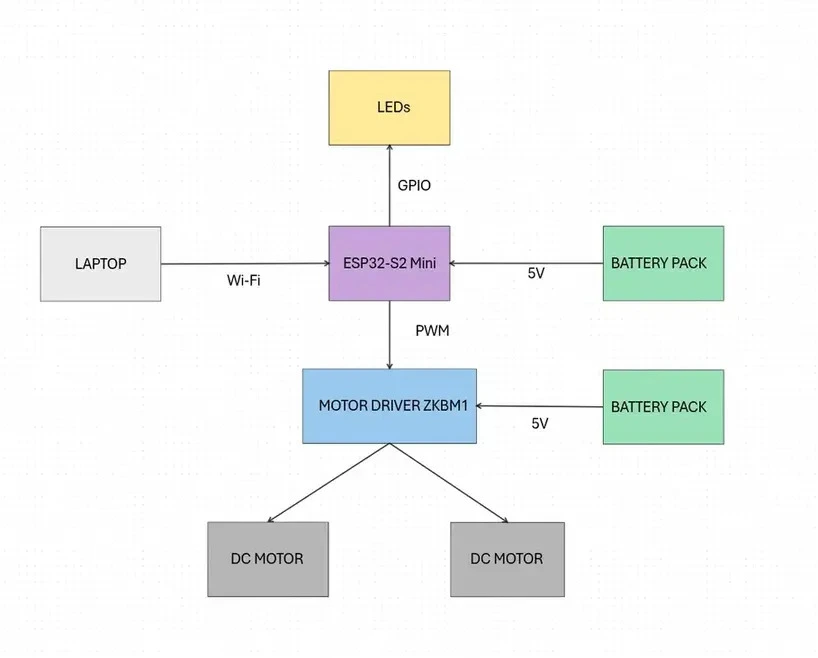
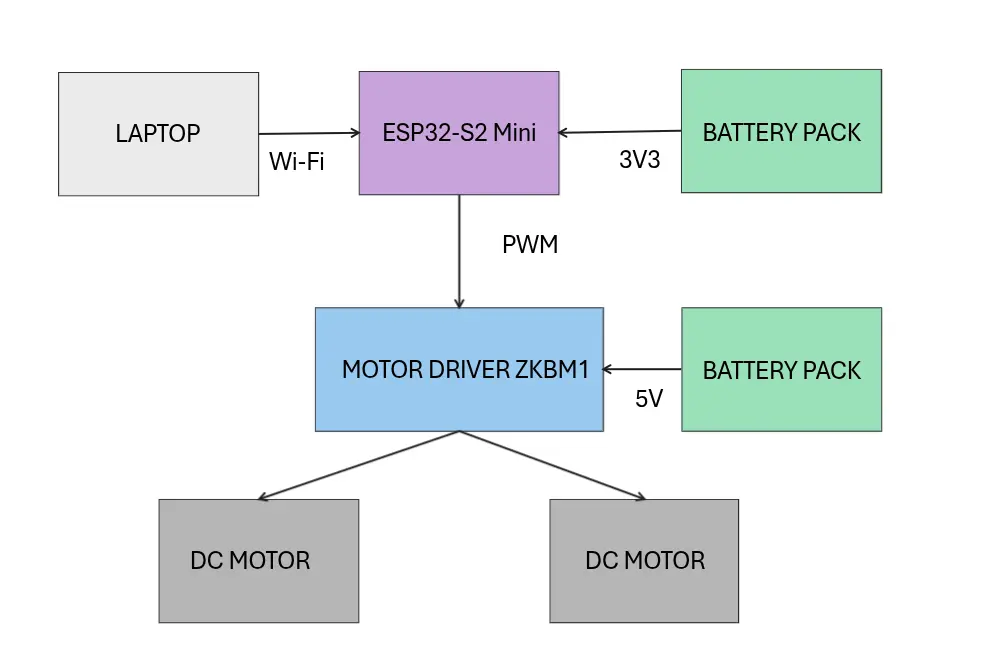
Added Kicad schematic

diff --git a/website/versioned_docs/version-fils_en/project/2025/andrei.salavastru/index.md b/website/versioned_docs/version-fils_en/project/2025/andrei.salavastru/index.md
@@ -23,16 +23,11 @@ I chose this project because I’ve always been curious about how RC cars work. 
 
 #### ESP32-S2 Mini
 - **Role:** Serves as the central microcontroller for the car. It handles Wi-Fi communication, receives user input, processes that input, and controls the motors.
-- **Connections:** GPIO pins display Wi-Fi connection status via LEDs, and some GPIO pins send PWM signals to the motor driver’s enable pins.
+- **Connections:** GPIO pins send PWM signals to the motor driver’s enable pins.
 
 #### LAPTOP
 - **Role:** Acts as the remote control interface. Sends WASD movement commands over Wi-Fi to the ESP32-S2 Mini.
 - **Connections:** Communicates with the ESP32-S2 via HTTP over a shared Wi-Fi network. The control interface is a web page.
-
-#### LEDs
-- **Interface:** GPIO 
-- **Role:** Show whether the ESP is connected to Wi-Fi.
-- **Connections:** Each LED is connected to a GPIO pin. A 220Ω resistor is placed between the GPIO and the LED to prevent damage.
 
 #### MOTOR DRIVER ZKBM1
 - **Interface:** PWM
@@ -54,17 +49,20 @@ I chose this project because I’ve always been curious about how RC cars work. 
 <!-- write your progress here every week -->
 
 ### Week 5 - 11 May
-
+Purchased all the necessary components and set up the Rust development environment for the ESP32-S2 Mini microcontroller.
 ### Week 12 - 18 May
-
+Completed the hardware assembly of the car, including wiring and soldering the electronic components. Continued software development by implementing Wi-Fi connectivity and setting up PWM control for the motors.
 ### Week 19 - 25 May
 
 ## Hardware
-The Octane project is built around an ESP32-S2 Mini, which handles both Wi-Fi communication and motor control. User commands (WASD) are received via Wi-Fi and translated into PWM signals sent to a ZKBM1 motor driver. A pair of status LEDs connected to GPIO pins provide feedback, indicating the Wi-Fi connection status. The ZKBM1 controls two DC motors, enabling movement through GPIO pins. Power is supplied by two battery packs: one powers the motor driver, and the other powers the ESP32-S2 Mini. Thus, the setup allows for wireless control using a microcontroller.
+The Octane project is built around an ESP32-S2 Mini, which handles both Wi-Fi communication and motor control. User commands (WASD) are received via Wi-Fi and translated into PWM signals sent to a ZKBM1 motor driver. The ZKBM1 controls two DC motors, enabling movement through GPIO pins. Power is supplied by two battery packs: one powers the motor driver, and the other powers the ESP32-S2 Mini. Thus, the setup allows for wireless control using a microcontroller.
+
+![Car Hardware](car.webp)
+
 
 ### Schematics
 
-Place your KiCAD schematics here.
+![KiCad schematic](KiCad.webp)
 
 ### Bill of Materials
 
@@ -76,7 +74,6 @@ Place your KiCAD schematics here.
 | [Battery Pack x2](https://www.emag.ro/carcasa-cu-suport-si-conectori-cu-2-fire-pentru-doua-baterii-tip-aa-r6-din-plastic-negru-csc-2-aa/pd/DGX5NBMBM/?ref=embedding_similar_model_1_1&provider=rec&recid=rec_102_7872997ae108d1ecb78cdc72ca60392b41d18d7b0db60c74e34ad4a5536be491_1746301694&scenario_ID=102)                  | Powers the motor driver and ESP32                           | [11.98 RON](https://www.emag.ro/carcasa-cu-suport-si-conectori-cu-2-fire-pentru-doua-baterii-tip-aa-r6-din-plastic-negru-csc-2-aa/pd/DGX5NBMBM/?ref=embedding_similar_model_1_1&provider=rec&recid=rec_102_7872997ae108d1ecb78cdc72ca60392b41d18d7b0db60c74e34ad4a5536be491_1746301694&scenario_ID=102)                                                          |
 | [Female-Female Wires x20 ](https://electronix.ro/produs/fire-dupont-mama-mama-cu-jumper-wire-pentru-pcb-10-pini/)            | Connect components Female-Female            | [5.96 RON](https://electronix.ro/produs/fire-dupont-mama-mama-cu-jumper-wire-pentru-pcb-10-pini/)                                                 |
 | [Male-Male Wires x20](https://electronix.ro/produs/fire-dupont-tata-tata-cu-jumper-wire-pentru-pcb-10-pini/)            | Connect components Male-Male              | [7.54 RON](https://electronix.ro/produs/fire-dupont-tata-tata-cu-jumper-wire-pentru-pcb-10-pini/)                                                 |
-| [220Ω Resistors x10](https://electronix.ro/produs/set-10-rezistori-220-ohm/)                     | Used with LEDs to limit current                             | [3.37 RON](https://electronix.ro/produs/set-10-rezistori-220-ohm/)                                                            |  
 
 
 
@@ -84,7 +81,7 @@ Place your KiCAD schematics here.
 | Library | Description | Usage |
 |---------|-------------|-------|
 | [`esp-idf-sys`](https://crates.io/crates/esp-idf-sys)   | Low-level bindings to the ESP-IDF  | Provides access to ESP32 system APIs and runtime components                                                |
-| [`esp-idf-hal`](https://crates.io/crates/esp-idf-hal)   | Hardware Abstraction Layer for ESP32 using ESP-IDF                      | Used for GPIO, PWM (via ledc) for motor and LED control               |
+| [`esp-idf-hal`](https://crates.io/crates/esp-idf-hal)   | Hardware Abstraction Layer for ESP32 using ESP-IDF                      | Used for GPIO, PWM (via ledc) for motor control               |
 | [`esp-idf-svc`](https://crates.io/crates/esp-idf-svc)   | High-level service wrappers over ESP-IDF APIs                           | Used for managing Wi-Fi and networking                                |
 | [`embedded-svc`](https://crates.io/crates/embedded-svc) | Traits and types for portable embedded services                         | Provides abstractions for networking, HTTP servers, and more          |
 | [`log`](https://crates.io/crates/log)                   | Standard Rust logging interface                                         | Enables logging throughout the application                            |
@@ -97,4 +94,5 @@ Place your KiCAD schematics here.
 
 <!-- Add a few links that inspired you and that you think you will use for your project -->
 
-1. [ESP Template](https://github.com/esp-rs/esp-template)
+1. [ESP IDF Template](https://github.com/esp-rs/esp-idf-template)
+2. [KiCad Tutorials](https://www.kicad.org/help/learning-resources)
